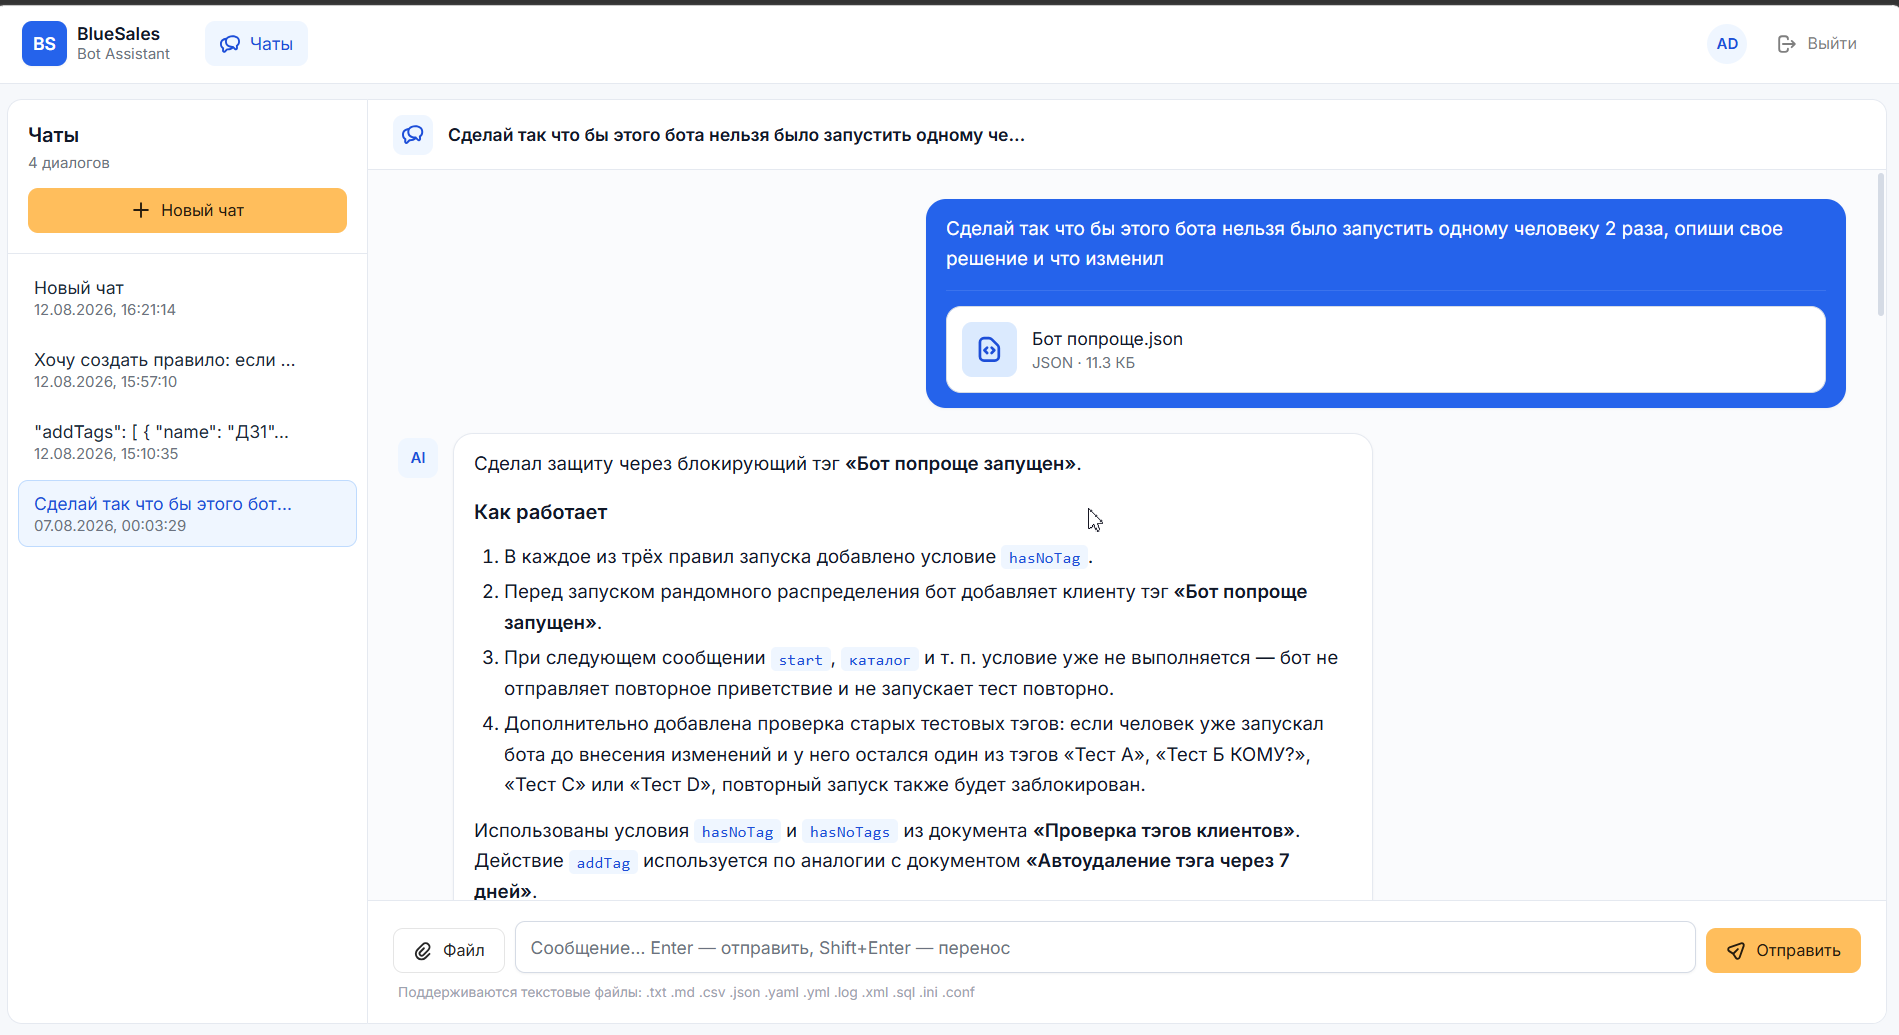
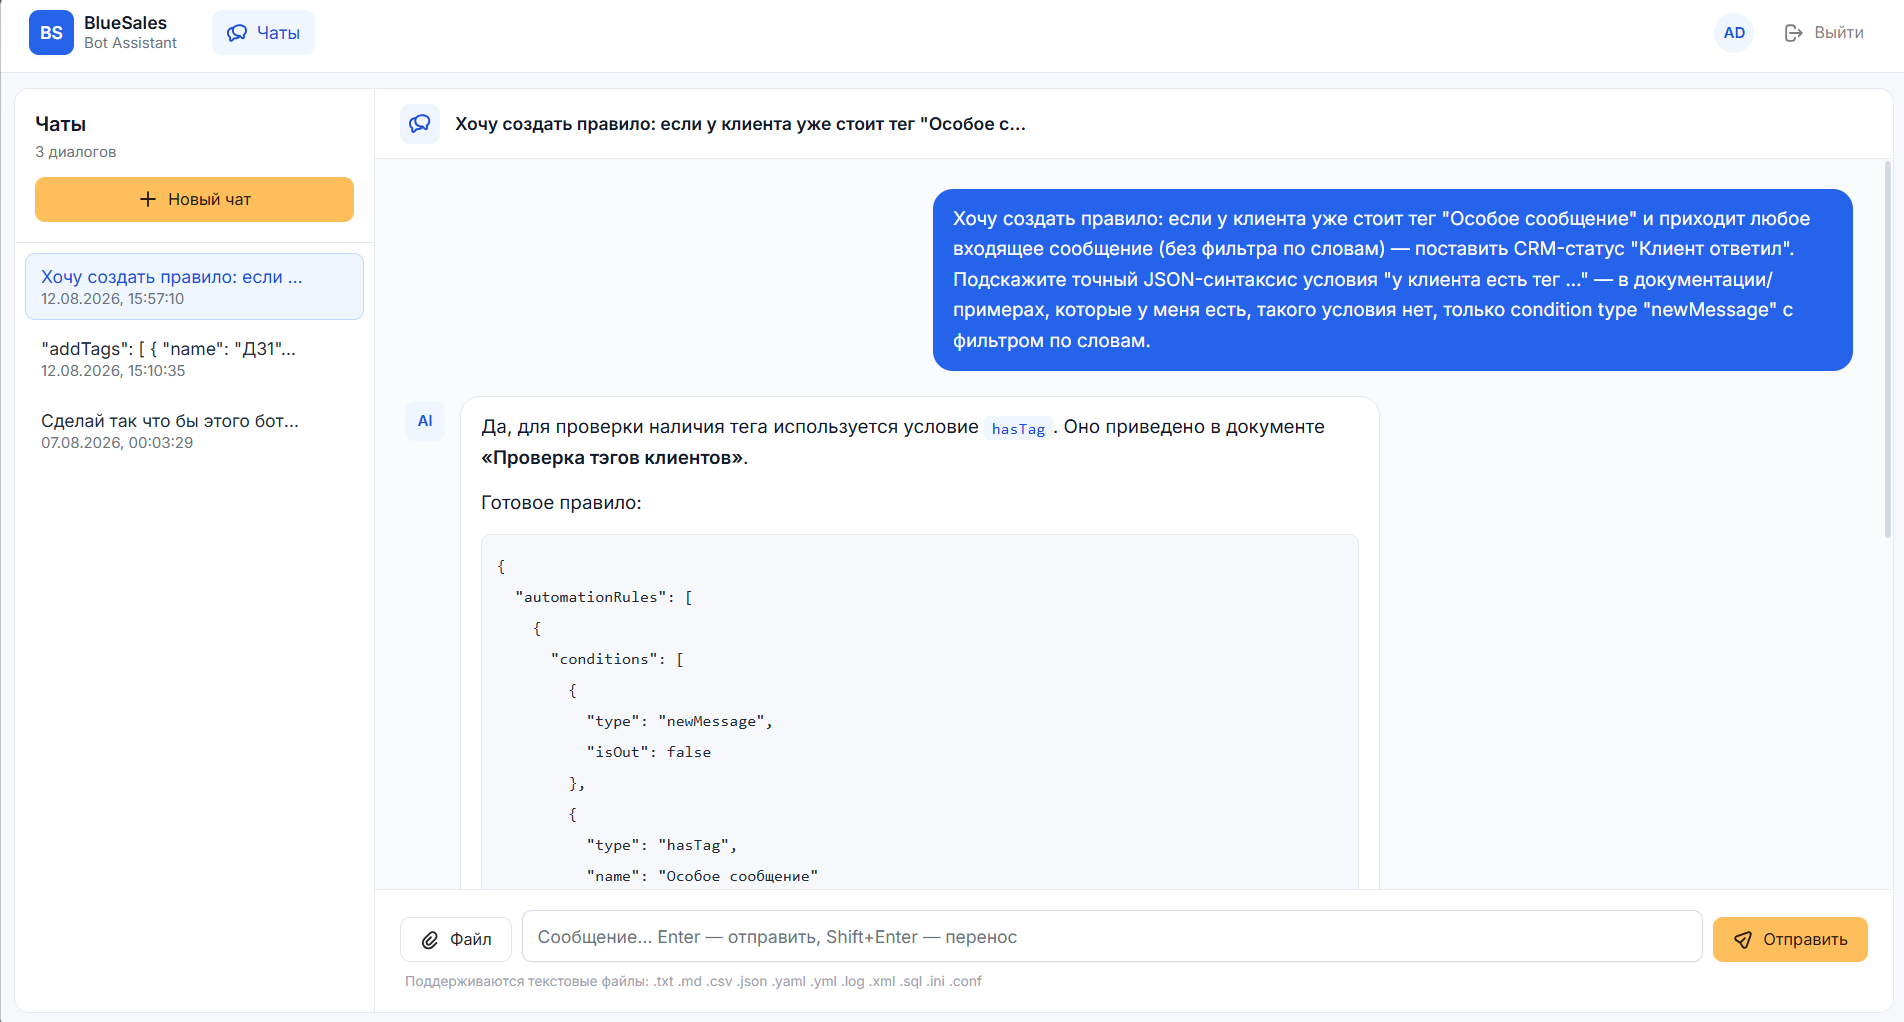
updates

diff --git a/frontend/src/pages/landing.css b/frontend/src/pages/landing.css
@@ -100,11 +100,15 @@
   padding: 90px 0 58px;
 }
 
+.landing-hero .landing-container {
+  width: min(1380px, calc(100% - 40px));
+}
+
 .landing-hero-grid {
   display: grid;
-  grid-template-columns: 0.92fr 1.08fr;
+  grid-template-columns: 0.72fr 1.28fr;
   align-items: center;
-  gap: 52px;
+  gap: 40px;
 }
 
 .landing-eyebrow {
@@ -668,6 +672,10 @@
 @media (max-width: 640px) {
   .landing-container {
     width: min(calc(100% - 24px), 1180px);
+  }
+
+  .landing-hero .landing-container {
+    width: min(calc(100% - 24px), 1380px);
   }
 
   .landing-nav {
